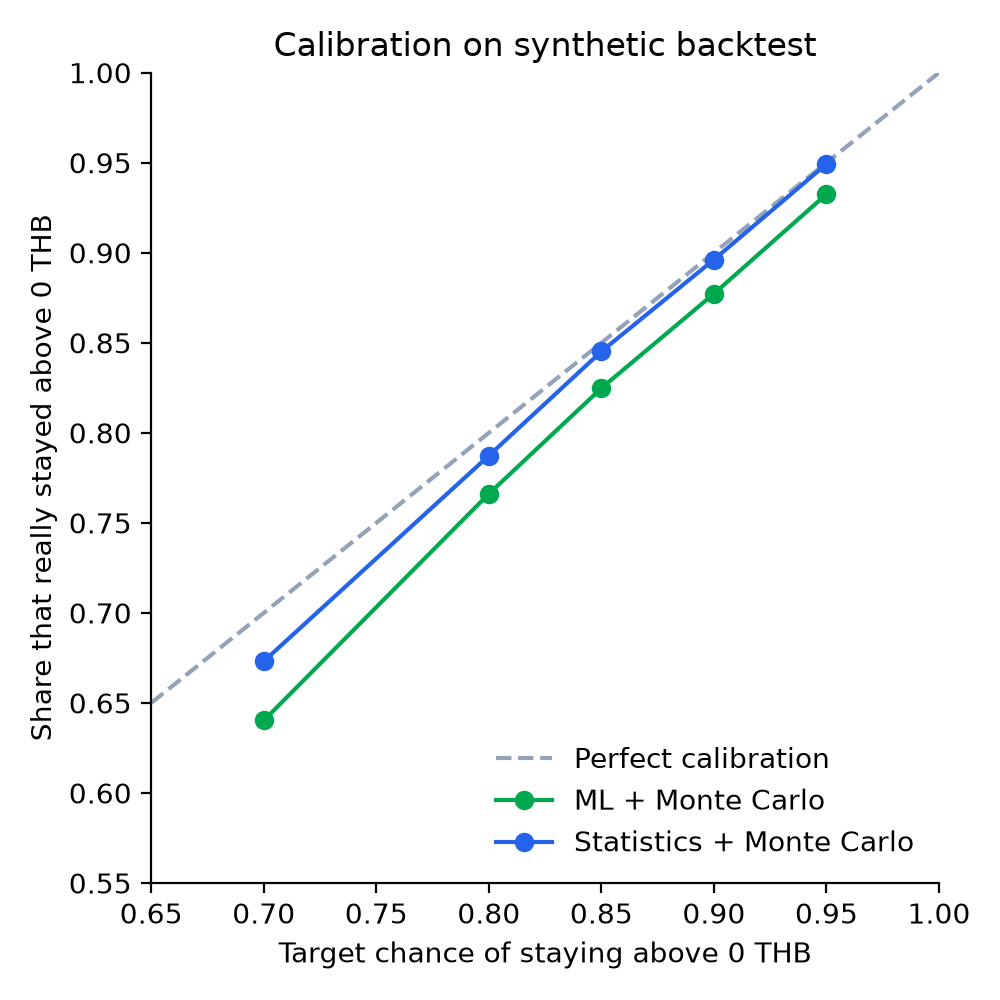
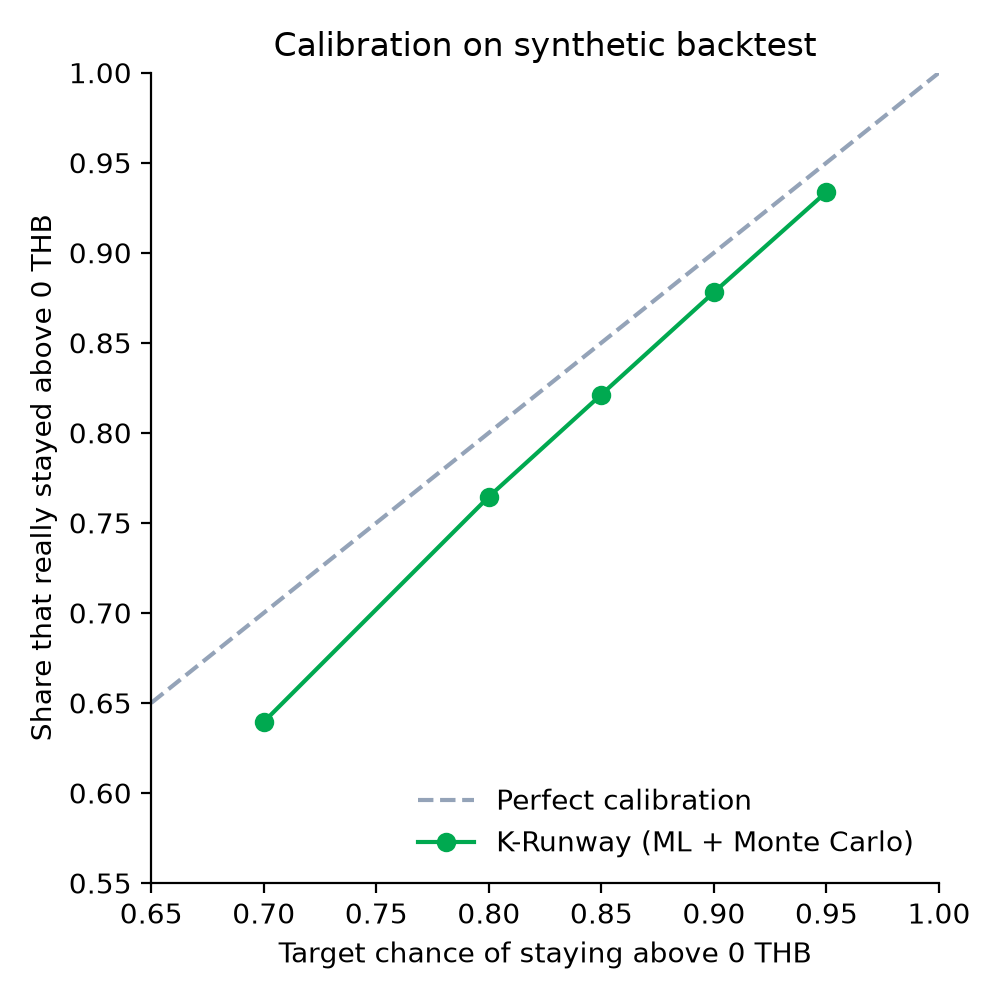
refactor: drop statistics baseline from ML backtest
Compare K-Runway (ML + Monte Carlo) against the even-split and day-by-day
baselines only. Remove StatsBaseline, regenerate outputs and update the
README. Earlier statistics comparison remains in 48188f7.

diff --git a/ml/krunway/backtest.py b/ml/krunway/backtest.py
@@ -1,22 +1,21 @@
-"""Rolling-origin backtest: four ways to set "safe to spend today", checked against what really happened.
+"""Rolling-origin backtest: three ways to set "safe to spend today", checked against what really happened.
 
 (a) even    (balance + expected income - bills) / days
 (b) direct  day-by-day cash flow with every income on its expected date: timing, but no uncertainty
-(c) stats   Monte Carlo with a flat recent average, iid noise and pooled payer delays (no ML)
-(d) ml      Monte Carlo with the gradient-boosting spend model and per-payer delays
+(c) ml      K-Runway: gradient-boosting spend model + per-payer delays + Monte Carlo
 
 Models are trained on the first 180 days. For every user and start day after
-that, each method recommends a daily budget for the next 30 days (target: 85%
-chance of never going below zero). We then replay what really happened: real
-income dates, real bills, and the user's real day-to-day spending pattern
-rescaled so its average equals the recommendation.
+that, each method recommends a daily budget for the next 30 days (K-Runway
+targets an 85% chance of never going below zero). We then replay what really
+happened: real income dates, real bills, and the user's real day-to-day
+spending pattern rescaled so its average equals the recommendation.
 """
 import numpy as np
 import pandas as pd
 from sklearn.metrics import roc_auc_score
 
 from .data import Dataset
-from .model import DelayModel, SpendModel, StatsBaseline, UserHistory, prior_delays, project_bills
+from .model import DelayModel, SpendModel, UserHistory, prior_delays, project_bills
 from .simulate import Income, direct_plan, even_split, simulate
 
 HORIZON = 30
@@ -25,7 +24,7 @@ ORIGINS = range(TRAIN_END, 240, 7)
 TARGETS = (0.7, 0.8, 0.85, 0.9, 0.95)
 MAIN_TARGET = 0.85
 WARN_BELOW = 0.7  # warn when the chance of lasting at usual spending is below this
-METHODS = ('even', 'direct', 'stats', 'ml')
+METHODS = ('even', 'direct', 'ml')
 
 
 def pending_incomes(history: UserHistory, sampler, rng):
@@ -61,8 +60,7 @@ def what_happened(user_tx: pd.DataFrame, history: UserHistory, horizon=HORIZON) 
 
 def fit_models(data: Dataset, train_end=TRAIN_END):
     histories = [UserHistory(*data.user(uid), train_end) for uid in data.users.user_id]
-    priors = prior_delays(data.invoices, train_end)
-    return SpendModel().fit(histories), DelayModel(priors), StatsBaseline(priors['ALL'])
+    return SpendModel().fit(histories), DelayModel(prior_delays(data.invoices, train_end))
 
 
 def run(data: Dataset, origins=ORIGINS, paths=4000, seed=11):
@@ -72,31 +70,30 @@ def run(data: Dataset, origins=ORIGINS, paths=4000, seed=11):
     lateness  one row per pending income due within a week of a start day, with predicted chance of being late
     """
     rng = np.random.default_rng(seed)
-    spend_model, delay_model, stats = fit_models(data)
+    spend_model, delay_model = fit_models(data)
     rows, lateness = [], []
     for user in data.users.itertuples():
         user_tx, user_inv, opening = data.user(user.user_id)
         for origin in origins:
             history = UserHistory(user_tx, user_inv, opening, origin)
             bills = project_bills(history.bills, origin, HORIZON)
+            incomes = pending_incomes(history, delay_model, rng)
             base = dict(user_id=user.user_id, persona=user.persona, origin=origin,
                         naive_forecast=float(history.spend[-7:].mean() * HORIZON), **what_happened(user_tx, history))
 
-            expected = pending_incomes(history, delay_model, rng)  # dates and amounts only, nothing sampled
-            rows.append(dict(base, method='even', budget=even_split(history.balance, bills, expected)))
-            rows.append(dict(base, method='direct', budget=direct_plan(history.balance, bills, expected)))
+            rows.append(dict(base, method='even', budget=even_split(history.balance, bills, incomes)))
+            rows.append(dict(base, method='direct', budget=direct_plan(history.balance, bills, incomes)))
 
-            for method, forecaster, sampler, block in (('stats', stats, stats, 1), ('ml', spend_model, delay_model, 7)):
-                mean, residuals = forecaster.forecast(history, HORIZON)
-                sim = simulate(rng, history.balance, bills, pending_incomes(history, sampler, rng), mean, residuals,
-                               paths=paths, block=block, level_sigma=history.level_sigma())
-                row = dict(base, method=method, budget=sim.budget_for(MAIN_TARGET),
-                           p_natural=sim.probability(sim.natural_budget), forecast_spend=float(mean.sum()))
-                for t in TARGETS:
-                    row[f'budget_{t}'] = sim.budget_for(t)
-                    # Even spending nothing misses the target: the product should warn instead of budgeting.
-                    row[f'feasible_{t}'] = sim.probability(0.0) >= t
-                rows.append(row)
+            mean, residuals = spend_model.forecast(history, HORIZON)
+            sim = simulate(rng, history.balance, bills, incomes, mean, residuals,
+                           paths=paths, block=7, level_sigma=history.level_sigma())
+            row = dict(base, method='ml', budget=sim.budget_for(MAIN_TARGET),
+                       p_natural=sim.probability(sim.natural_budget), forecast_spend=float(mean.sum()))
+            for t in TARGETS:
+                row[f'budget_{t}'] = sim.budget_for(t)
+                # Even spending nothing misses the target: the product should warn instead of budgeting.
+                row[f'feasible_{t}'] = sim.probability(0.0) >= t
+            rows.append(row)
 
             due = user_inv[(user_inv.known_day <= origin) & (user_inv.expected_day >= origin)
                            & (user_inv.expected_day < origin + 7)]
@@ -131,40 +128,33 @@ def ran_out_by_persona(results: pd.DataFrame) -> pd.DataFrame:
 
 def calibration(results: pd.DataFrame) -> pd.DataFrame:
     """For each target: among cases where the target is reachable, how often the budget really lasted."""
+    ml = results[results.method == 'ml']
     rows = []
-    for method in ('stats', 'ml'):
-        g = results[results.method == method]
-        for t in TARGETS:
-            reachable = g[g[f'feasible_{t}'].astype(bool)]
-            rows.append(dict(method=method, target=t,
-                             realized=float((reachable[f'budget_{t}'] <= reachable.realized_max).mean()),
-                             warned_pct=100 * (1 - len(reachable) / len(g))))
+    for t in TARGETS:
+        reachable = ml[ml[f'feasible_{t}'].astype(bool)]
+        rows.append(dict(target=t, realized=float((reachable[f'budget_{t}'] <= reachable.realized_max).mean()),
+                         warned_pct=100 * (1 - len(reachable) / len(ml))))
     return pd.DataFrame(rows)
 
 
 def model_checks(results: pd.DataFrame, lateness: pd.DataFrame) -> pd.DataFrame:
-    """The individual pieces, ML vs without ML."""
-    ml, stats = (results[results.method == m] for m in ('ml', 'stats'))
+    """The individual pieces of the ML model, next to a simple baseline where one applies."""
+    ml = results[results.method == 'ml']
     clients = lateness[lateness.payer != 'EMPLOYER']
 
     def forecast_error(forecast, actual):
         return 100 * float(np.median(np.abs(forecast - actual) / actual))
 
-    def warnings(g):
-        flagged, ran_out = g.p_natural < WARN_BELOW, ~g.natural_ok
-        caught = (flagged & ran_out).sum()
-        return 100 * caught / ran_out.sum(), 100 * caught / flagged.sum()
-
-    (ml_recall, ml_precision), (st_recall, st_precision) = warnings(ml), warnings(stats)
+    flagged, ran_out = ml.p_natural < WARN_BELOW, ~ml.natural_ok
+    caught = (flagged & ran_out).sum()
     rows = [
-        ('Spend forecast error, 30-day total (median %)',
-         forecast_error(ml.forecast_spend, ml.actual_spend), forecast_error(stats.forecast_spend, stats.actual_spend),
-         forecast_error(ml.naive_forecast, ml.actual_spend)),
-        ('Late-payment AUC, all income',
-         roc_auc_score(lateness.late, lateness.p_payer), roc_auc_score(lateness.late, lateness.p_type), np.nan),
-        ('Late-payment AUC, freelance clients only',
-         roc_auc_score(clients.late, clients.p_payer), roc_auc_score(clients.late, clients.p_type), np.nan),
-        (f'Run-out warning (chance < {WARN_BELOW:.0%}): real run-outs caught %', ml_recall, st_recall, np.nan),
-        (f'Run-out warning (chance < {WARN_BELOW:.0%}): warnings that were right %', ml_precision, st_precision, np.nan),
+        ('Spend forecast error, 30-day total (median %) | baseline: last 7 days average',
+         forecast_error(ml.forecast_spend, ml.actual_spend), forecast_error(ml.naive_forecast, ml.actual_spend)),
+        ('Late-payment AUC, all income | baseline: payer type only',
+         roc_auc_score(lateness.late, lateness.p_payer), roc_auc_score(lateness.late, lateness.p_type)),
+        ('Late-payment AUC, freelance clients only | baseline: payer type only',
+         roc_auc_score(clients.late, clients.p_payer), roc_auc_score(clients.late, clients.p_type)),
+        (f'Run-out warning (chance < {WARN_BELOW:.0%}): real run-outs caught %', 100 * caught / ran_out.sum(), np.nan),
+        (f'Run-out warning (chance < {WARN_BELOW:.0%}): warnings that were right %', 100 * caught / flagged.sum(), np.nan),
     ]
-    return pd.DataFrame(rows, columns=['check', 'ml', 'without_ml', 'last_7_days']).set_index('check')
+    return pd.DataFrame(rows, columns=['check', 'ml', 'baseline']).set_index('check')

diff --git a/ml/krunway/model.py b/ml/krunway/model.py
@@ -4,7 +4,6 @@ detect_bills   recurring bills from outgoing payments (rule-based)
 UserHistory    everything visible about one user before a given day
 SpendModel     gradient boosting: each future day's spending relative to the user's usual level
 DelayModel     how late each payer tends to pay, shrunk toward a bank-wide prior (cold start)
-StatsBaseline  the same outputs without ML: a flat recent average and pooled delays
 """
 import numpy as np
 import pandas as pd
@@ -164,23 +163,9 @@ class DelayModel:
         return weight * own_rate + (1 - weight) * self.prior_late(payer)
 
 
-class StatsBaseline:
-    """No ML: a flat 60-day average, day-to-day noise from the same window, delays pooled across payers."""
-
-    def __init__(self, pooled_delays):
-        self.pooled = pooled_delays
-
-    def forecast(self, history: UserHistory, horizon: int, window=60):
-        recent = history.spend[-window:]
-        level = float(recent.mean())
-        return np.full(horizon, level), recent / level
-
-    def sample(self, rng, history, payer, size, min_delay=0):
-        return _not_yet_paid(rng, rng.choice(self.pooled, size), self.pooled, self.pooled, min_delay)
-
-
 def prior_delays(invoices: pd.DataFrame, before_day: int) -> dict:
+    """Bank-wide delays observed before `before_day`, by payer kind."""
     paid = invoices[invoices.actual_day < before_day]
     delays = (paid.actual_day - paid.expected_day).to_numpy()
     employer = (paid.payer == 'EMPLOYER').to_numpy()
-    return {'EMPLOYER': delays[employer], 'CLIENT': delays[~employer], 'ALL': delays}
+    return {'EMPLOYER': delays[employer], 'CLIENT': delays[~employer]}

diff --git a/ml/run.py b/ml/run.py
@@ -18,12 +18,11 @@ from krunway.data import generate  # noqa: E402
 from krunway.simulate import Income, even_split, simulate  # noqa: E402
 
 ROOT = Path(__file__).resolve().parent
-GREEN, RED, AMBER, BLUE, GREY = '#00A950', '#DC2626', '#F59E0B', '#2563EB', '#94A3B8'
+GREEN, RED, AMBER, GREY = '#00A950', '#DC2626', '#F59E0B', '#94A3B8'
 METHOD_STYLE = {
     'even': ('Even split', RED),
     'direct': ('Day-by-day plan\n(no uncertainty)', AMBER),
-    'stats': ('Statistics +\nMonte Carlo', BLUE),
-    'ml': ('ML +\nMonte Carlo', GREEN),
+    'ml': ('K-Runway\n(ML + Monte Carlo)', GREEN),
 }
 
 
@@ -86,10 +85,8 @@ def ran_out_chart(summary, path):
 def calibration_chart(cal, path):
     fig, ax = plt.subplots(figsize=(5, 5))
     ax.plot([0.65, 1], [0.65, 1], color=GREY, linestyle='--', label='Perfect calibration')
-    for method in ('ml', 'stats'):
-        g = cal[cal.method == method]
-        label, colour = METHOD_STYLE[method]
-        ax.plot(g.target, g.realized, marker='o', color=colour, label=label.replace('\n', ' '))
+    label, colour = METHOD_STYLE['ml']
+    ax.plot(cal.target, cal.realized, marker='o', color=colour, label=label.replace('\n', ' '))
     ax.set(xlabel='Target chance of staying above 0 THB', ylabel='Share that really stayed above 0 THB',
            title='Calibration on synthetic backtest', xlim=(0.65, 1), ylim=(0.55, 1))
     ax.legend(frameon=False, loc='lower right')

diff --git a/ml/README.md b/ml/README.md
@@ -21,9 +21,9 @@ ml/
 ├── run.py              รันทุกอย่าง: ตัวอย่างในสไลด์ + backtest + model checks + กราฟ + ข้อมูล CSV
 ├── krunway/
 │   ├── data.py         สร้างข้อมูลจำลอง 3 กลุ่ม (เงินเดือนประจำ / ฟรีแลนซ์ / มีงานเสริม) 270 วัน
-│   ├── model.py        หาบิลประจำ, ML พยากรณ์รายจ่าย, โมเดลวันเงินเข้า, baseline ไม่ใช้ ML
-│   ├── simulate.py     Monte Carlo + หายอดวันนี้ใช้ได้ + baseline หารเท่า ๆ กัน / คำนวณตรง
-│   └── backtest.py     ทดสอบย้อนหลังเทียบ 4 วิธี
+│   ├── model.py        หาบิลประจำ, ML พยากรณ์รายจ่าย, โมเดลวันเงินเข้า
+│   ├── simulate.py     Monte Carlo + หายอดวันนี้ใช้ได้ + วิธีเปรียบเทียบ (หารเท่า ๆ กัน / คำนวณตรง)
+│   └── backtest.py     ทดสอบย้อนหลัง K-Runway เทียบกับวิธีทั่วไป
 ├── tests/test_krunway.py
 └── output/             สร้างใหม่ทุกครั้งที่รัน
 ```
@@ -36,7 +36,7 @@ ml/
 | `ran_out_by_method.png` | กราฟแท่ง: เงินหมดกี่ % ถ้าทำตามแต่ละวิธี |
 | `calibration.png` | บอก 85% แล้วพอจริง 85% ไหม |
 | `pitch_example.csv` | ตัวเลขตัวอย่างในสไลด์ |
-| `backtest_summary.csv`, `backtest_by_persona.csv` | ผลเทียบ 4 วิธี รวม และแยกกลุ่ม |
+| `backtest_summary.csv`, `backtest_by_persona.csv` | ผลเทียบ 3 วิธี รวม และแยกกลุ่ม |
 | `calibration.csv`, `model_checks.csv` | calibration และผลทดสอบรายส่วน |
 | `data/users.csv` | ผู้ใช้ 300 คน: `user_id`, `persona`, `base_spend`, `opening_balance` |
 | `data/transactions.csv` | ธุรกรรมทุกรายการ: `user_id`, `day`, `direction`, `merchant`, `amount` |
@@ -47,8 +47,8 @@ ml/
 
 1. **หาบิลประจำ:** จ่ายผู้รับเดิม ≥ 3 ครั้ง ยอดใกล้กัน ห่างกันราว 1 เดือน
 2. **ML พยากรณ์รายจ่าย:** `HistGradientBoostingRegressor` ทำนายรายจ่ายแต่ละวันเทียบกับระดับปกติของผู้ใช้ จากวันในสัปดาห์ วันในเดือน วันนับจากเงินเข้า ระดับรายจ่าย และยอดเงินเทียบรายจ่าย ใช้ residual เป็นความไม่แน่นอนรายวัน และเพิ่มความผันผวนรายเดือน
-3. **วันเงินเข้า:** ประวัติความล่าช้าของผู้จ่ายแต่ละราย ผสมกับค่ากลางของธนาคาร (ผู้จ่ายใหม่ใช้ค่ากลางไปก่อน)
-4. **Monte Carlo:** จำลองหลายพันเส้นทาง × 30 วัน ในแต่ละเส้นทาง รายจ่าย = งบ × รูปแบบการใช้ จึงหางบสูงสุดที่ไม่ติดลบได้ตรง ๆ
+3. **วันเงินเข้า:** เรียนรู้จากประวัติว่าผู้จ่ายแต่ละรายมักจ่ายช้าแค่ไหน ผสมกับค่ากลางของธนาคาร (ผู้จ่ายใหม่ใช้ค่ากลางไปก่อน)
+4. **Monte Carlo:** จำลอง 4,000 เส้นทาง × 30 วัน ในแต่ละเส้นทาง รายจ่าย = งบ × รูปแบบการใช้ จึงหางบสูงสุดที่ไม่ติดลบได้ตรง ๆ
    `งบสูงสุด[เส้นทาง] = min ทุกวัน ( เงินที่มีถึงวันนั้น ÷ รูปแบบการใช้สะสม )`
    งบที่ได้โอกาสพอ 85% = quantile ที่ 15% ของงบสูงสุด
 
@@ -68,38 +68,38 @@ ml/
 
 ### 2) Backtest (300 คน × 9 จุดเริ่ม × 30 วัน = 2,700 กรณีต่อวิธี)
 
-เทรนด้วย 180 วันแรก ทดสอบกับช่วงหลังที่โมเดลไม่เคยเห็น แต่ละวิธีแนะนำงบต่อวัน (เป้าโอกาสพอ 85%) แล้วเล่นซ้ำสิ่งที่เกิดจริง
+เทรนด้วย 180 วันแรก ทดสอบกับช่วงหลังที่โมเดลไม่เคยเห็น แต่ละวิธีแนะนำงบต่อวัน แล้วเล่นซ้ำสิ่งที่เกิดจริง (วันเงินเข้าจริง บิลจริง และจังหวะการใช้เงินจริงของผู้ใช้)
 
-| วิธี | เงินหมดเมื่อทำตามคำแนะนำ | Brier ↓ |
-|---|---|---|
-| (ก) หารเท่า ๆ กัน | **73%** | – |
-| (ข) คำนวณตรงตามวัน (คิดจังหวะ แต่ไม่คิดความไม่แน่นอน) | 60% | – |
-| (ค) สถิติ + Monte Carlo (ไม่ใช้ ML) | 21% | 0.031 |
-| (ง) ML + Monte Carlo | 23% | **0.026** |
+| วิธี | เงินหมดเมื่อทำตามคำแนะนำ |
+|---|---|
+| (ก) หารเท่า ๆ กัน | **73%** |
+| (ข) คำนวณตรงตามวัน (คิดจังหวะ แต่ไม่คิดความไม่แน่นอน) | 60% |
+| **(ค) K-Runway: ML + Monte Carlo (เป้าโอกาสพอ 85%)** | **23%** |
 
-| เงินหมด (%) | หารเท่า ๆ กัน | คำนวณตรง | สถิติ + MC | ML + MC |
-|---|---|---|---|---|
-| ฟรีแลนซ์ | 74 | 69 | 28 | **26** |
-| เงินเดือนประจำ | 68 | 53 | **16** | 20 |
-| มีงานเสริม | 77 | 58 | **17** | 22 |
+| เงินหมด (%) | หารเท่า ๆ กัน | คำนวณตรง | K-Runway |
+|---|---|---|---|
+| ฟรีแลนซ์ | 74 | 69 | **26** |
+| เงินเดือนประจำ | 68 | 53 | **20** |
+| มีงานเสริม | 77 | 58 | **22** |
 
-Calibration: ตั้งเป้า 85% → พอจริง 82% (ML) / 85% (สถิติ) อีกราว 7% ของกรณี แม้ไม่ใช้เงินเลยก็ไม่ถึงเป้า ระบบควร **เตือน** แทนการให้งบ
+Calibration: ตั้งเป้า 85% → พอจริง 82% อีกราว 7% ของกรณี แม้ไม่ใช้เงินเลยก็ไม่ถึงเป้า ระบบควร **เตือน** แทนการให้งบ (ตัวเลข 23% ข้างบนนับกรณีเหล่านี้เป็น "เงินหมด" ด้วย)
 
 ### 3) ทดสอบรายส่วน (`model_checks.csv`)
 
-| เรื่อง | ML | ไม่ใช้ ML | ค่าเฉลี่ย 7 วัน |
-|---|---|---|---|
-| พยากรณ์รายจ่าย 30 วัน คลาดเคลื่อน (median) | 17.4% | 17.0% (ค่าเฉลี่ย 60 วัน) | 25.6% |
-| ทำนายว่าเงินก้อนไหนจะเข้าช้า (AUC) ทุกรายได้ | **0.82** | 0.72 (ดูแค่ประเภทผู้จ่าย) | – |
-| ทำนายว่าเงินก้อนไหนจะเข้าช้า (AUC) เฉพาะลูกค้าฟรีแลนซ์ | **0.70** | 0.50 (เดาสุ่ม) | – |
-| เตือนเมื่อโอกาสพอ < 70%: จับคนที่เงินหมดจริงได้ | **93%** | 91% | – |
-| เตือนเมื่อโอกาสพอ < 70%: เตือนแล้วถูก | **77%** | 74% | – |
+| เรื่อง | ML | วิธีเปรียบเทียบ |
+|---|---|---|
+| พยากรณ์รายจ่าย 30 วัน คลาดเคลื่อน (median) | **17.4%** | 25.6% (ค่าเฉลี่ย 7 วันล่าสุด) |
+| ทำนายว่าเงินก้อนไหนจะเข้าช้า (AUC) ทุกรายได้ | **0.82** | 0.72 (ดูแค่ประเภทผู้จ่าย) |
+| ทำนายว่าเงินก้อนไหนจะเข้าช้า (AUC) เฉพาะลูกค้าฟรีแลนซ์ | **0.70** | 0.50 (เท่ากับเดาสุ่ม) |
+| เตือนเมื่อโอกาสพอ < 70%: จับคนที่เงินหมดจริงได้ | **93%** | – |
+| เตือนเมื่อโอกาสพอ < 70%: เตือนแล้วถูก | **78%** | – |
 
 ### อ่านผลอย่างตรงไปตรงมา
 
-- **การคิดเผื่อความไม่แน่นอนสำคัญที่สุด:** แค่คิดจังหวะเงินเข้า–ออก (ข) ยังเงินหมด 60% ต้องจำลองหลายสถานการณ์ (ค, ง) จึงลดเหลือราว 20%
-- **ML ช่วยชัดที่สุดตรง "ใครจะจ่ายช้า":** รู้ว่าลูกค้ารายไหนมักจ่ายช้า (AUC 0.70 vs เดาสุ่ม 0.50) จึงช่วยกลุ่มฟรีแลนซ์มากที่สุด
-- **การพยากรณ์รายจ่าย ML สูสีกับค่าเฉลี่ย 60 วัน** และกับคนเงินเดือนประจำ ML มั่นใจเกินไปเล็กน้อย ตรงกับเอกสารทีมที่ว่าคุณค่าของ ML เห็นชัดที่สุดในกลุ่มรายได้ไม่แน่นอน
+- **ตัวที่ลดการเงินหมดมากที่สุดคือการคิดเผื่อความไม่แน่นอน (Monte Carlo):** แค่คิดจังหวะเงินเข้า–ออก (ข) ยังเงินหมด 60%
+- **จุดที่การเรียนรู้จากประวัติรายบุคคลช่วยชัดที่สุด คือรู้ว่าลูกค้ารายไหนมักจ่ายช้า** (AUC 0.70 เทียบกับเดาสุ่ม 0.50) จึงช่วยกลุ่มฟรีแลนซ์
+- **ML มั่นใจเกินจริงเล็กน้อย** (บอก 85% พอจริง 82%) ระบบจริงต้องปรับเทียบ (recalibrate) ด้วยข้อมูลย้อนหลังของธนาคาร
+- **ห้ามอ้างว่า ML แม่นกว่า X%** บนข้อมูลจริง เพราะผลนี้มาจากข้อมูลที่เราสร้างเอง
 
 ## ข้อจำกัด
 
